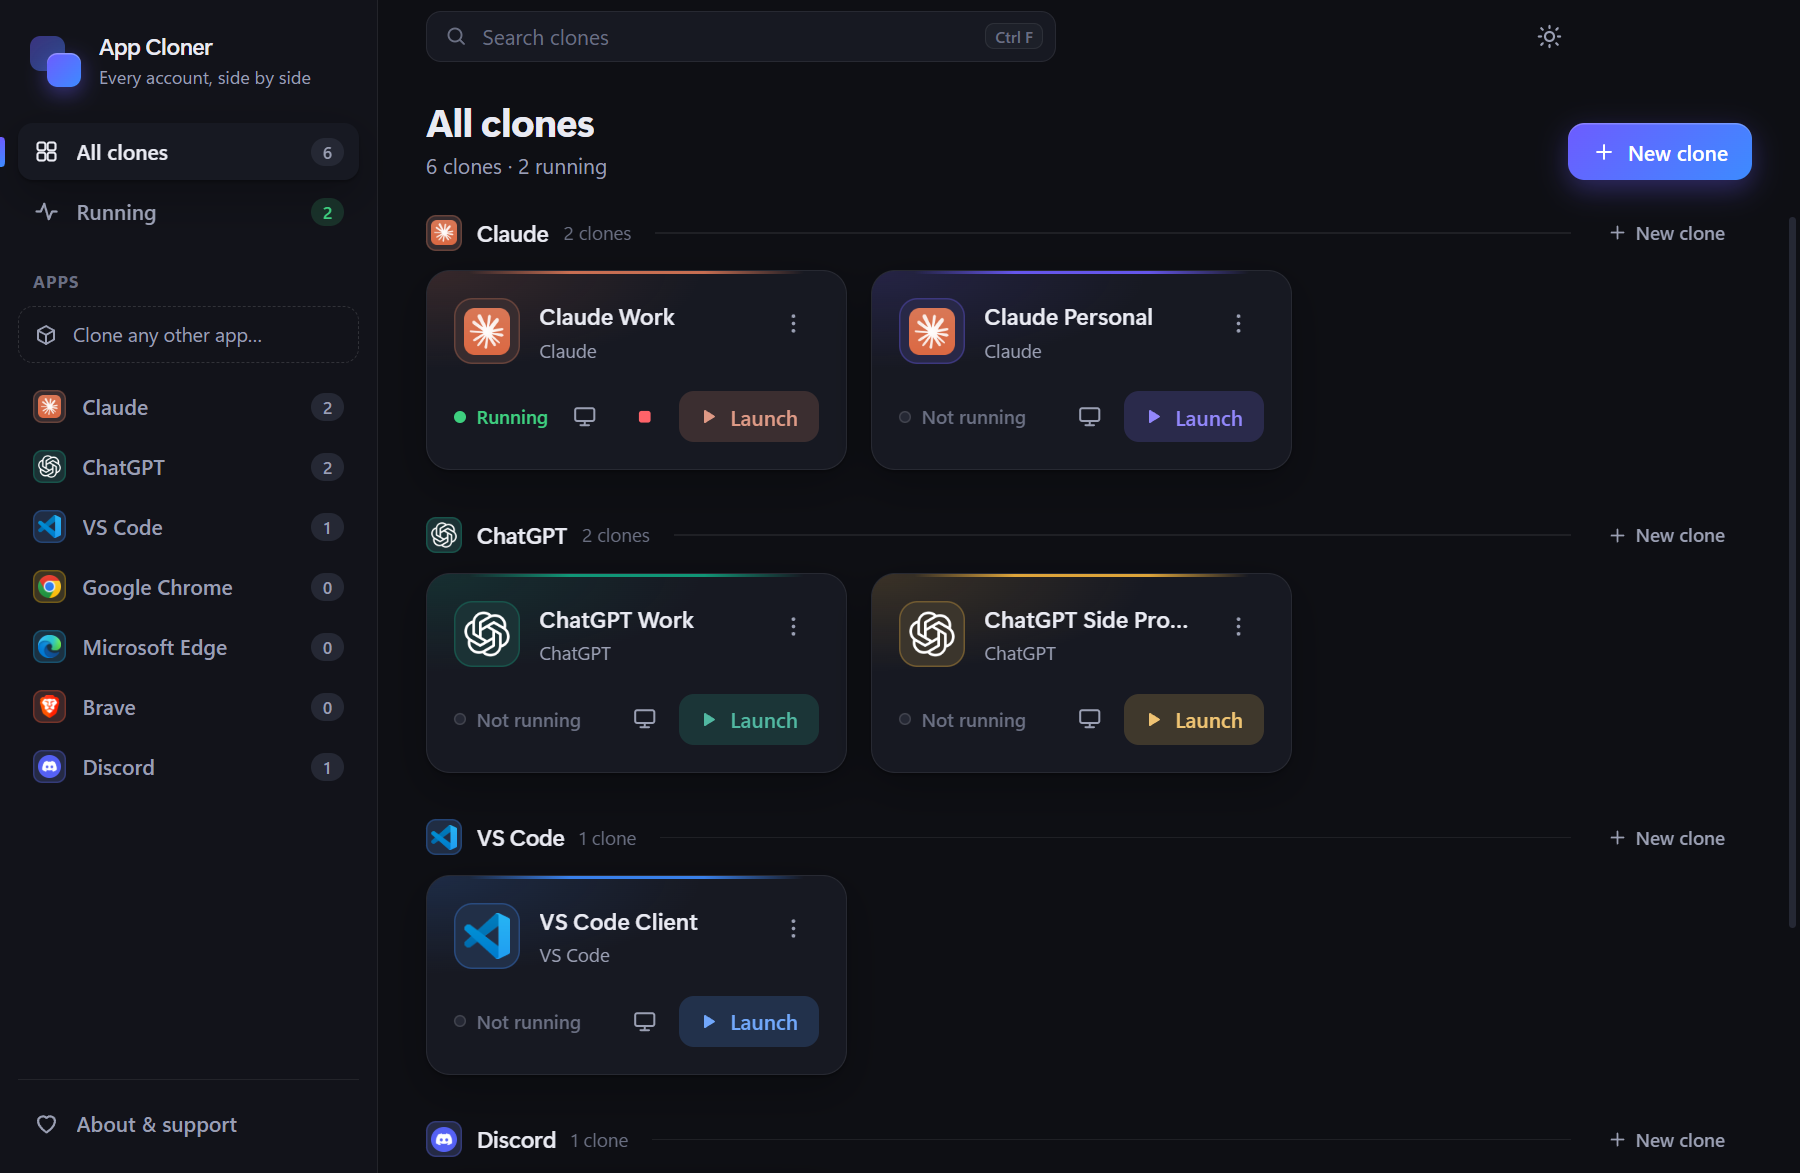
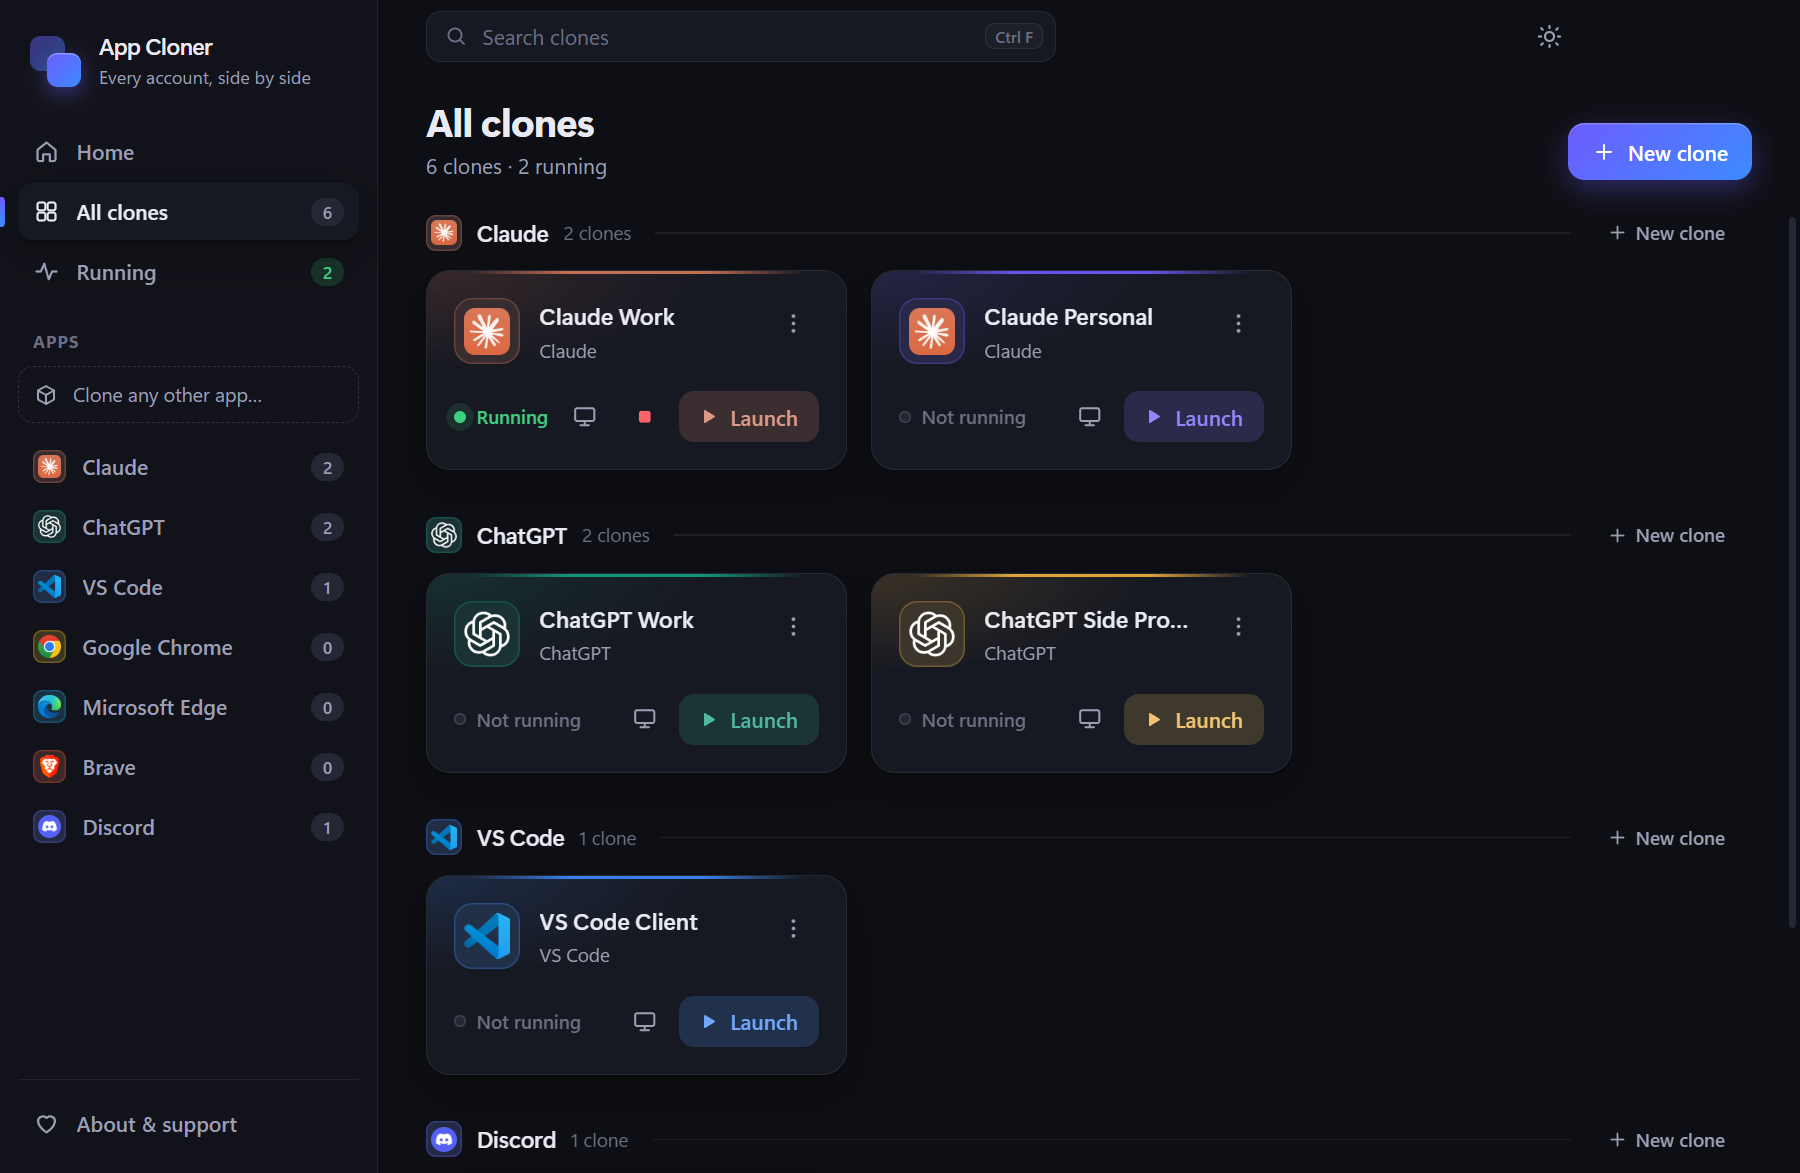
README: screenshots for v1.0.3, Home page and automatic update install

diff --git a/README.md b/README.md
@@ -26,7 +26,11 @@ Claude · ChatGPT (with Codex) · Discord · VS Code · Cursor · Windsurf · Go
 
 ### 1. Pick an app
 
-Click **New clone**. Apps installed on your PC are ready to clone; the others are greyed out. **Any other app** lets you pick a program file yourself.
+The app opens on **Home**, which shows the apps you can clone. Click one to start.
+
+<p align="center"><img src="screenshots/00-home.png" alt="The Home page" width="75%"></p>
+
+You can also click **New clone** from any page. Apps installed on your PC are ready to clone; the others are greyed out. **Any other app** lets you pick a program file yourself.
 
 <p align="center"><img src="screenshots/02-new-clone-picker.png" alt="Choosing an app to clone" width="75%"></p>
 
@@ -38,7 +42,7 @@ Give the clone a name, pick a color, and decide whether it gets its own desktop 
 
 ### 3. Launch, stop and manage your clones
 
-Every clone has a card: **Launch** opens it, the green dot shows which ones are running, and the red **■** stops a running clone (also the ones hiding in the system tray). Click an app in the sidebar to see only its clones.
+**All clones** lists every clone you've made, grouped by app. Every clone has a card: **Launch** opens it, the green dot shows which ones are running, and the red **■** stops a running clone (also the ones hiding in the system tray). Click an app in the sidebar to see only its clones.
 
 <p align="center"><img src="screenshots/04-app-page.png" alt="The clones of one app" width="75%"></p>
 
@@ -60,7 +64,7 @@ Switch themes with the sun/moon button at the top right. Your choice is remember
 
 ## Updates
 
-The app updates itself from this page. A new version downloads in the background while you work and installs when you close the app, or right away if you click **Restart**. Your clones, their sign-ins and their shortcuts are kept.
+The app updates itself from this page. A new version downloads in the background while you work. It installs when you close the app, right away if you click **Restart**, or by itself 15 minutes after it finishes downloading if you keep the app open (it waits until you're done with any open dialog). Your clones, their sign-ins and their shortcuts are kept.
 
 ## About and support
 
